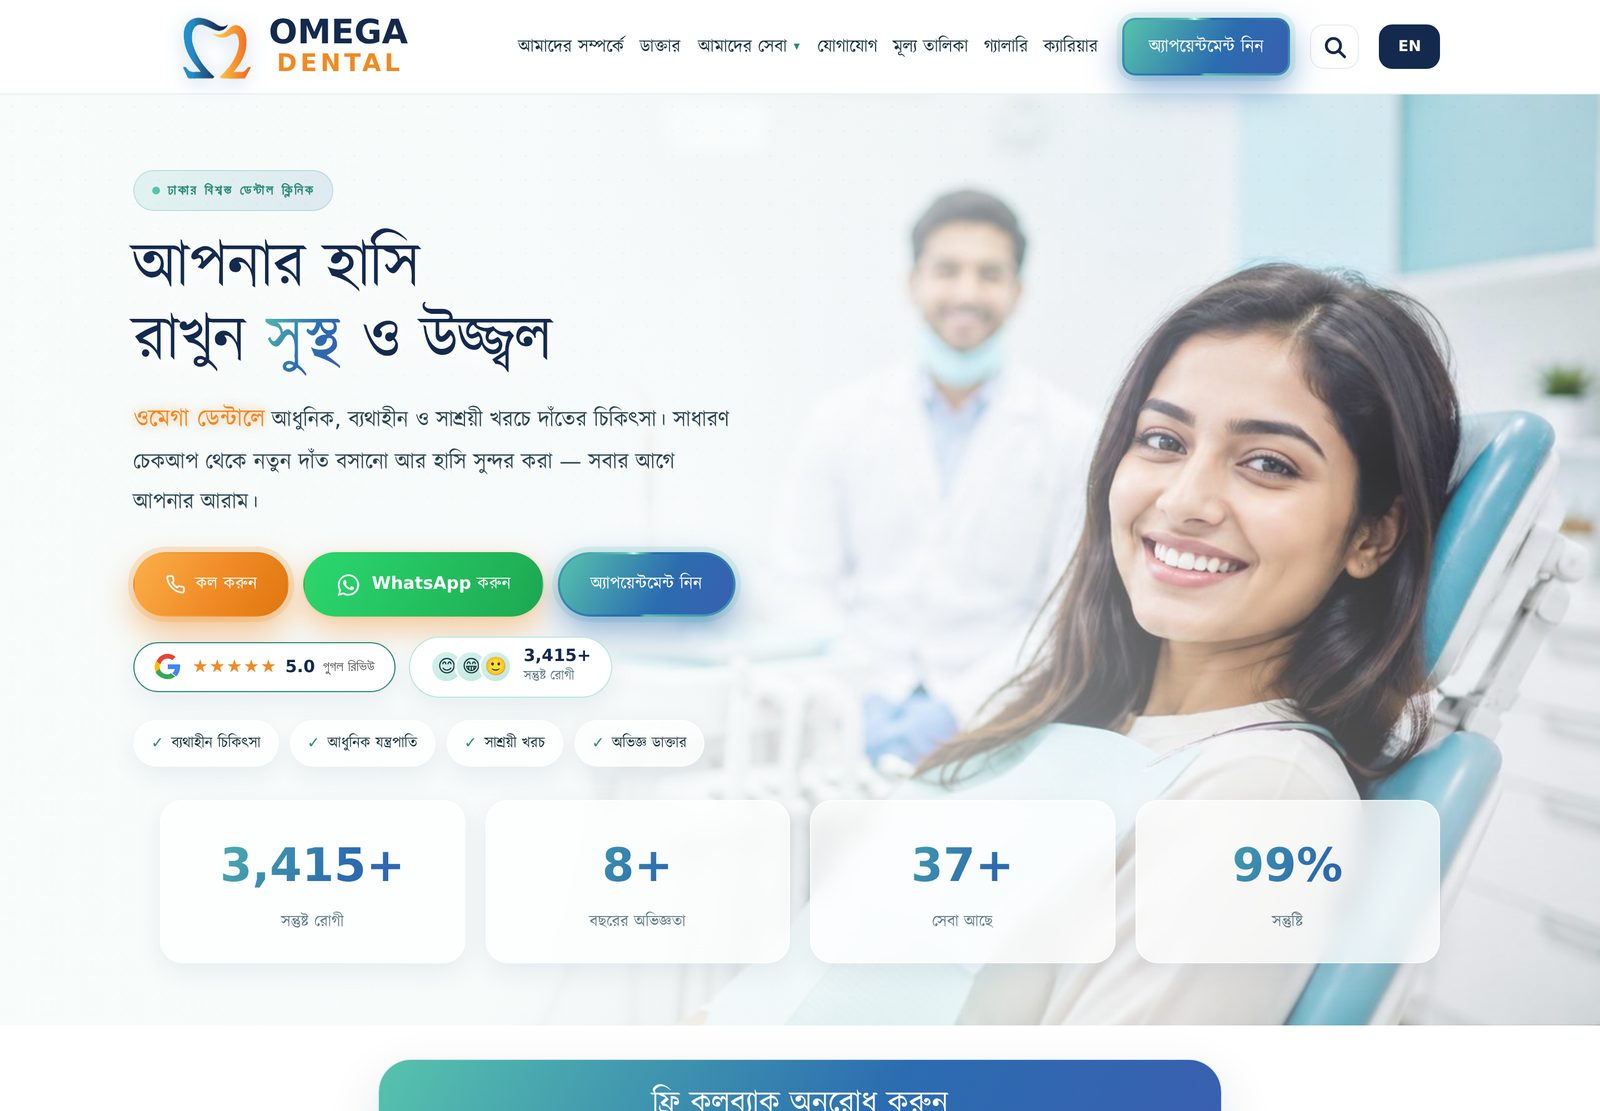
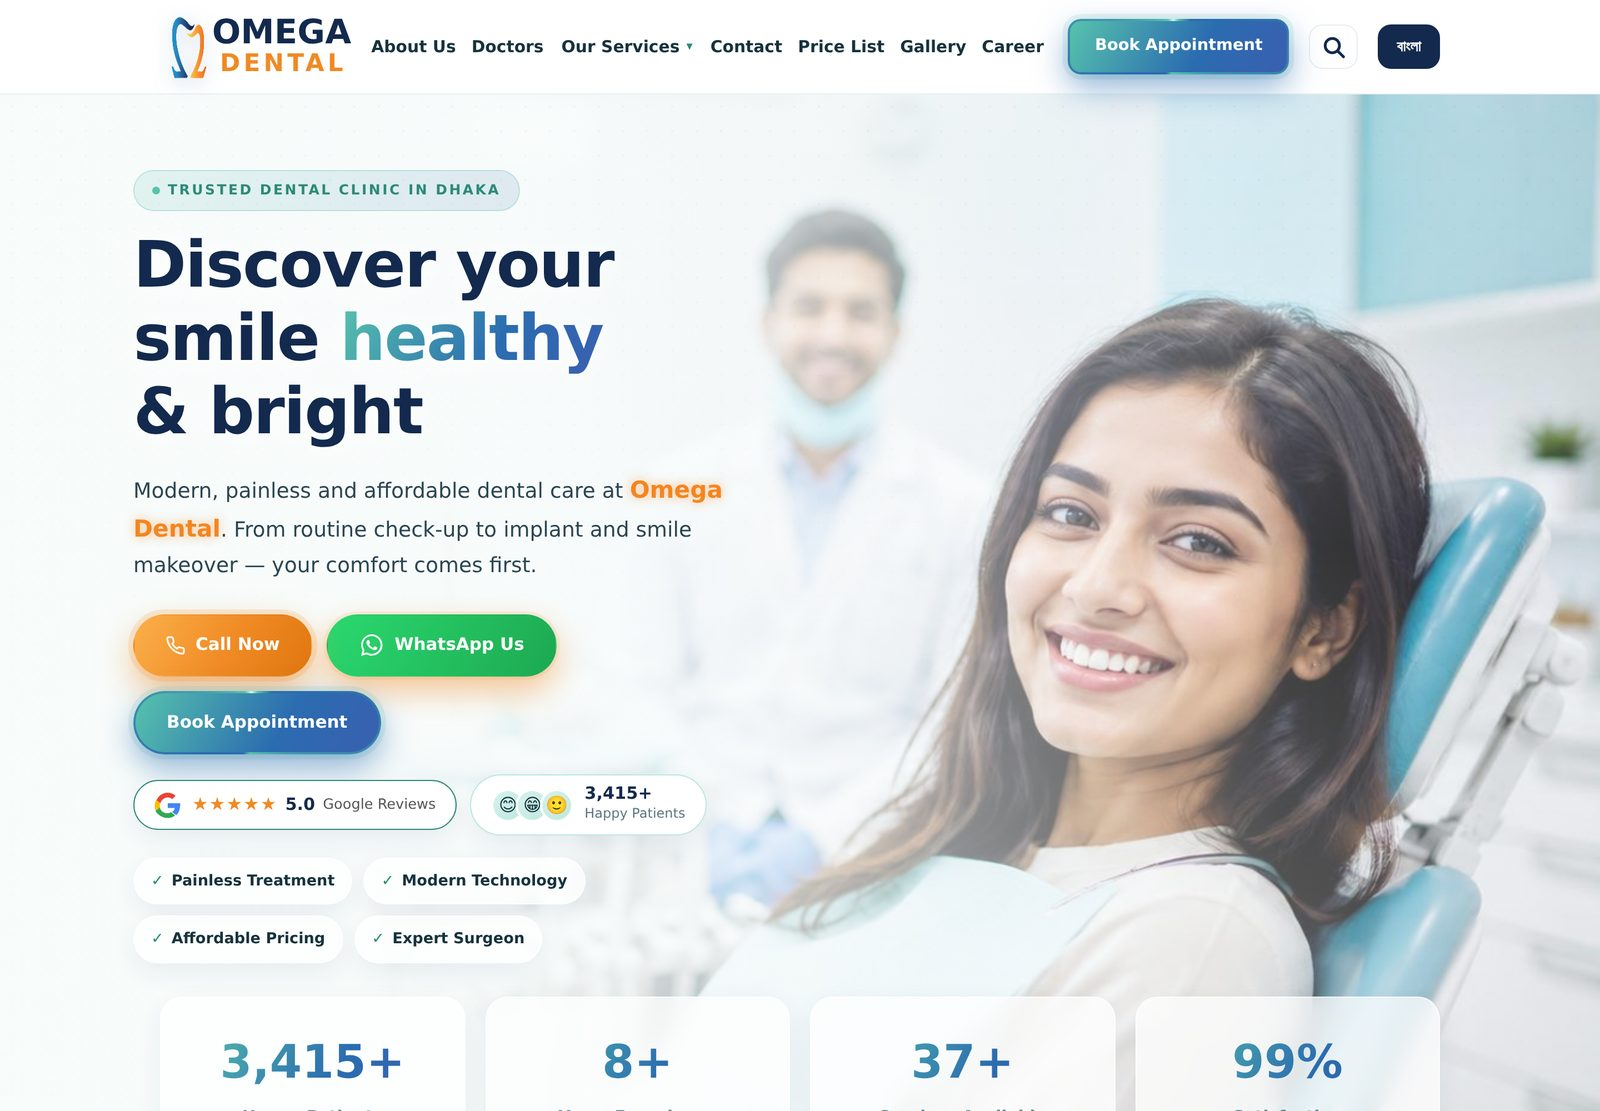
Correct the case study after Omega Dental switched to an English default
The page claimed "The homepage in Bangla — the default language, because that
is what patients read". That stopped being true the moment the client asked for
English-first, and a portfolio whose checkable claim is wrong is worse than one
that claims less. The caption now describes what is actually notable and still
accurate: every page written twice from one set of files, switched in a tap, and
the choice remembered.

Screenshots re-taken from the live build so they show what a visitor now sees,
and the alt text no longer describes a Bangla screenshot.

Claude-Session: https://claude.ai/code/session_01Kgqwkd6aTU3s7aJeoJxqGi

diff --git a/index.html b/index.html
@@ -25,7 +25,7 @@
 <link rel="preconnect" href="https://fonts.googleapis.com">
 <link rel="preconnect" href="https://fonts.gstatic.com" crossorigin>
 <link rel="stylesheet" href="https://fonts.googleapis.com/css2?family=Space+Grotesk:wght@500;600;700&family=Inter:wght@400;500;600;700&family=Noto+Sans+Bengali:wght@400;500;600;700&display=swap">
-<link rel="stylesheet" href="assets/styles.css?v=5">
+<link rel="stylesheet" href="assets/styles.css?v=6">
 <script type="application/ld+json">
 {
   "@context":"https://schema.org",
@@ -107,9 +107,9 @@
     </header>
 
     <figure class="shot shot-lead">
-      <img src="assets/work/omega-home.jpg" alt="Omega Dental homepage in Bangla, showing the hero, call-to-action buttons and clinic statistics" width="1600" height="1111" loading="lazy" decoding="async">
-      <figcaption data-en="The homepage in Bangla — the default language, because that is what patients read."
-                  data-bn="হোমপেজ বাংলায় — ডিফল্ট ভাষা, কারণ রোগীরা এটাই পড়েন।">The homepage in Bangla — the default language, because that is what patients read.</figcaption>
+      <img src="assets/work/omega-home.jpg" alt="Omega Dental homepage showing the hero, call-to-action buttons and clinic statistics" width="1600" height="1111" loading="lazy" decoding="async">
+      <figcaption data-en="The homepage. Every page is written twice, in English and Bangla, from one set of files — a visitor switches with one tap and the choice is remembered."
+                  data-bn="হোমপেজ। প্রতিটি পাতা একই ফাইল থেকে দুবার লেখা — ইংরেজি ও বাংলায়। এক ট্যাপে ভাষা বদলায়, আর পছন্দটা মনে রাখা হয়।">The homepage. Every page is written twice, in English and Bangla, from one set of files — a visitor switches with one tap and the choice is remembered.</figcaption>
     </figure>
 
     <div class="metrics">
